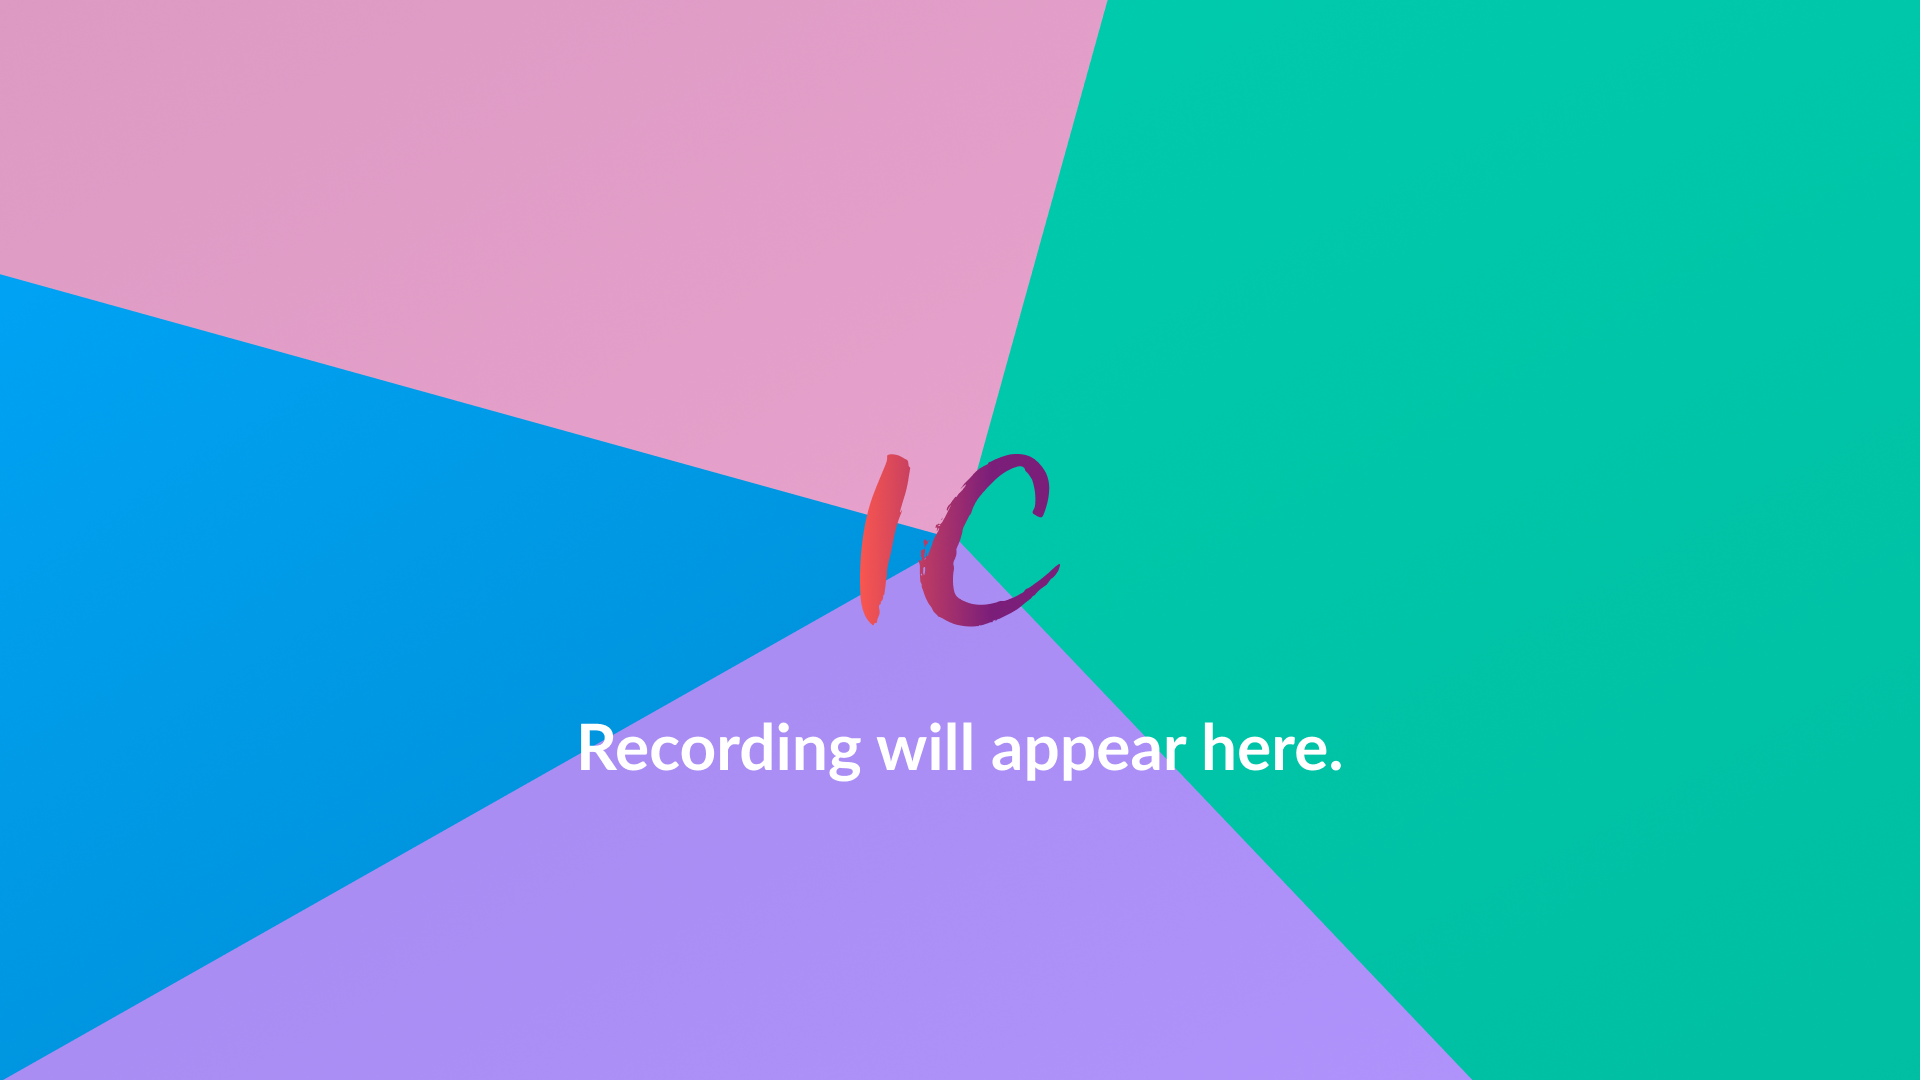
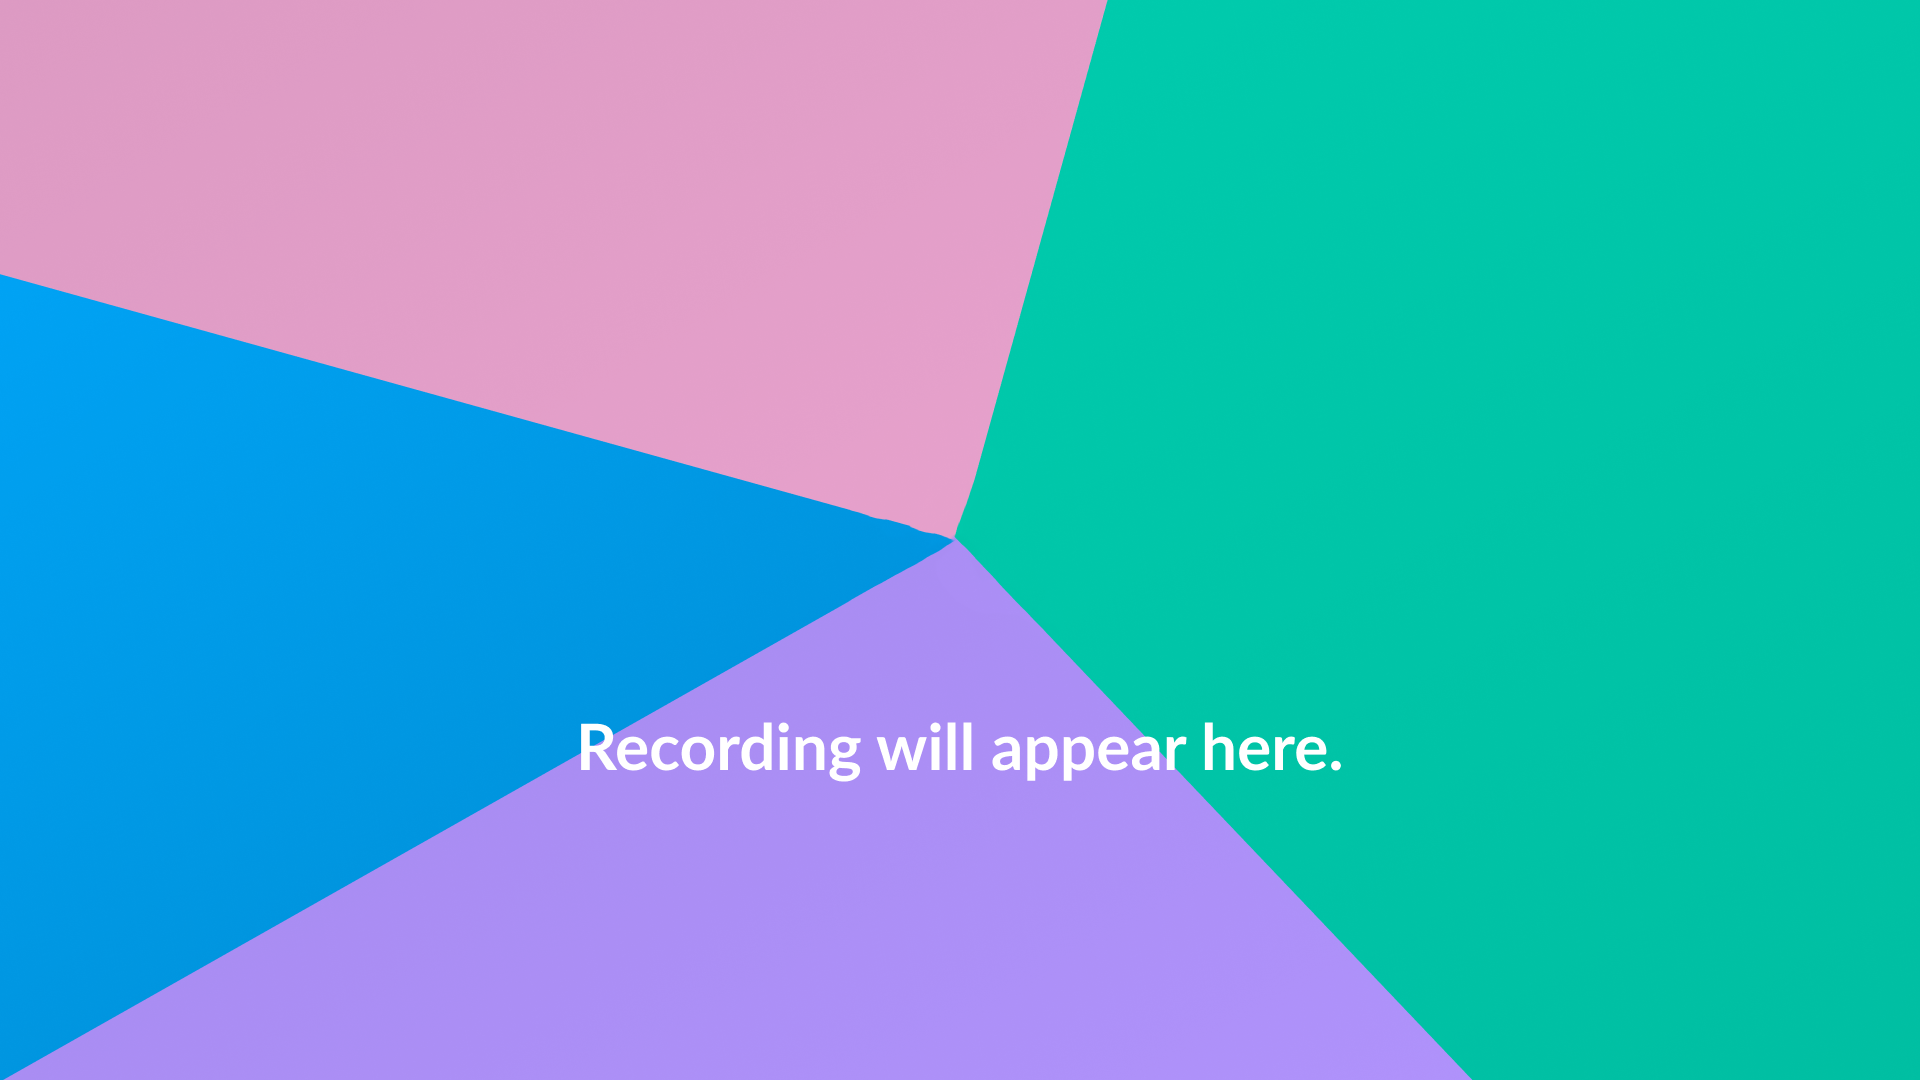
updated

Changed region(s): [[0.4375, 0.4278, 0.5625, 0.5806], [0.5312, 0.5194, 0.5625, 0.55]]

diff --git a/src/Navbar.js b/src/Navbar.js
@@ -4,26 +4,27 @@ import GitHubButton from "react-github-btn";
 const Navbar = () => (
   <nav>
     <h2>
-      <a href="https://github.com/ishan-chhabra/use-screen-recorder">
+      <a href="https://github.com/tbanj/screen-recorder-react">
         use-screen-recorder
       </a>
       <GitHubButton
-        href="https://github.com/ishan-chhabra/use-screen-recorder"
+        href="https://github.com/tbanj/screen-recorder-react"
         data-show-count="true"
-        aria-label="Star ishan-chhabra/use-screen-recorder on GitHub"
+        aria-label="Star tbanj/screen-recorder-react on GitHub"
       >
         Star
       </GitHubButton>
       <GitHubButton
-        href="https://github.com/ishan-chhabra"
+        href="https://github.com/tbanj"
         data-show-count="true"
-        aria-label="Follow @ishan-chhabra on GitHub"
+        aria-label="Follow @tbanj on GitHub"
       >
-        Follow @ishan-chhabra
+        Follow @tbanj
       </GitHubButton>
     </h2>
-    <a href="https://ishanchhabra.com">
-      <img src="https://ishanchhabra.com/logo.svg" />
+    <a href="https://temitope-port.netlify.app">
+      {/* <img src="https://ishanchhabra.com/logo.svg" /> */}
+      More in portfolio
     </a>
   </nav>
 );
